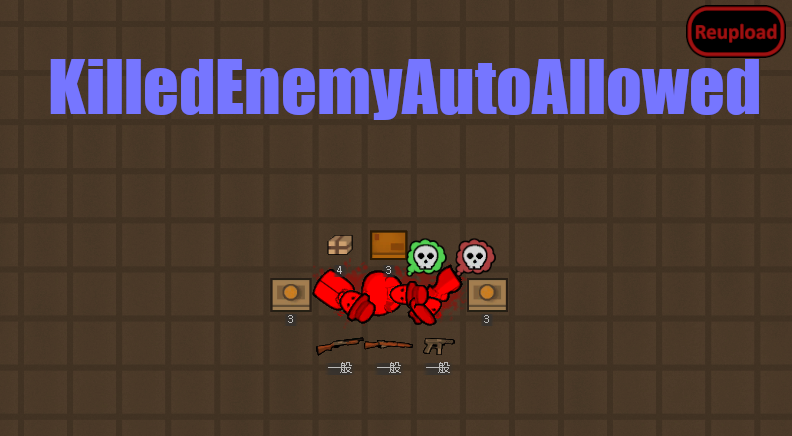
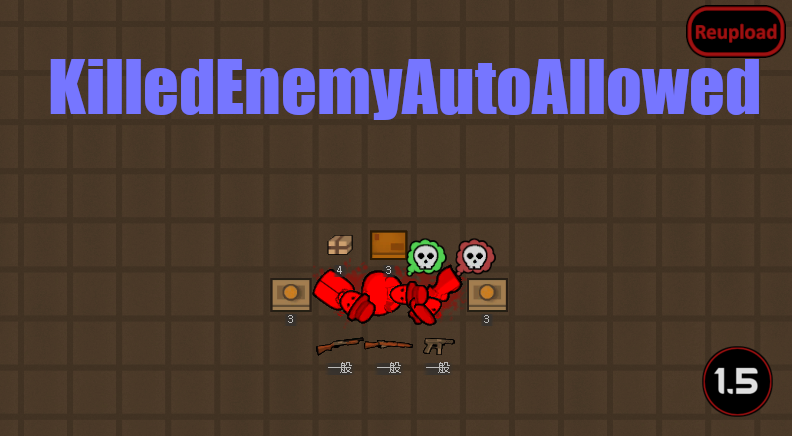
Mod updated for 1.5 and passed autotests

Changed region(s): [[0.8788, 0.7752, 1.0, 0.9541]]

diff --git a/Source/KilledEnemyAutoAllowed/Mod.cs b/Source/KilledEnemyAutoAllowed/Mod.cs
@@ -6,8 +6,6 @@ namespace KilledEnemyDontPushOutThings;
 [StaticConstructorOnStartup]
 public static class Mod
 {
-    public const string Name = "KilledEnemyAutoAllowed";
-
     static Mod()
     {
         new Harmony("Mlie.KilledEnemyAutoAllowed").PatchAll();

diff --git a/README.md b/README.md
@@ -26,11 +26,13 @@ Stockpile Stack Limit : https://steamcommunity.com/sharedfiles/filedetails/?id=1
 
 -  See if the the error persists if you just have this mod and its requirements active.
 -  If not, try adding your other mods until it happens again.
--  Post your error-log using https://steamcommunity.com/workshop/filedetails/?id=818773962]HugsLib and command Ctrl+F12
+-  Post your error-log using https://steamcommunity.com/workshop/filedetails/?id=818773962]HugsLib or the standalone https://steamcommunity.com/sharedfiles/filedetails/?id=2873415404]Uploader and command Ctrl+F12
 -  For best support, please use the Discord-channel for error-reporting.
 -  Do not report errors by making a discussion-thread, I get no notification of that.
 -  If you have the solution for a problem, please post it to the GitHub repository.
+-  Use https://github.com/RimSort/RimSort/releases/latest]RimSort to sort your mods
 
 
 
+https://steamcommunity.com/sharedfiles/filedetails/changelog/2159090973]![Image](https://img.shields.io/github/v/release/emipa606/KilledEnemyAutoAllowed?label=latest%20version&style=plastic&color=9f1111&labelColor=black)
 
